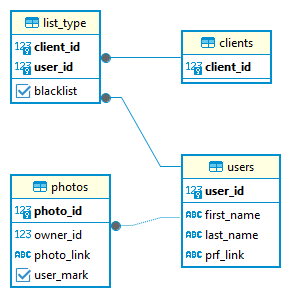
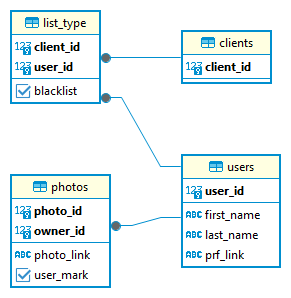
fixed the errors

Changed region(s): [[0.0309, 0.7248, 0.3711, 0.8154], [0.4639, 0.7248, 0.6186, 0.755]]

diff --git a/src/modules/classes.py b/src/modules/classes.py
@@ -7,6 +7,7 @@ from datetime import datetime
 from vk_api import VkApi, ApiError
 from vk_api.keyboard import VkKeyboard, VkKeyboardColor
 from vk_api.longpoll import Event
+from sqlalchemy.exc import IntegrityError
 
 from db import ModelDb, Users, Photos, Clients
 from vk_data import KeyWord, Meths, DftSrcCriteria
@@ -187,7 +188,7 @@ class UserVkApi(VkApi):
             return []
 
 
-class GropVkApi(VkApi):
+class GroupVkApi(VkApi):
 
     def __init__(self, group_token: str) -> None:
         super().__init__(token=group_token, api_version='5.191')
@@ -519,7 +520,7 @@ class UserBot(ActionInterface):
     AGE_PATTERN = re.compile(r'\d{1,3}')
 
     def __init__(self, user_api: UserVkApi, user: User,
-                 bot_api: GropVkApi, model_db: ModelDb) -> None:
+                 bot_api: GroupVkApi, model_db: ModelDb) -> None:
         super().__init__()
         self.s_engin = SearchEngine(user_api)
         self.db = model_db
@@ -560,22 +561,16 @@ class UserBot(ActionInterface):
         self.api.show_kb(self.client.id, msg, self.curr_kb.get_keyboard())
 
     def _go_blacklist_view(self, msg='Посмотрим...') -> None:
-        self.marker = 0
-        self.max_marker = len(self.blacklist) - 1
-        self.viewing_list = list(self.blacklist)
-        message = msg
-        self.curr_kb, self.curr_action = self._get_viewing_history_kb()
-        self.api.show_kb(self.client.id, message, self.curr_kb.get_keyboard())
-        self._show_next_person()
+        if self.set_viewing_options(self.blacklist, msg):
+            self.show_user_info(self.viewing_list[self.marker])
+        else:
+            self.api.write_msg(self.client.id, 'Список пуст...')
 
     def _go_favorites_view(self, msg='Посмотрим...') -> None:
-        self.marker = 0
-        self.max_marker = len(self.favorite_list) - 1
-        self.viewing_list = list(self.favorite_list)
-        message = msg
-        self.curr_kb, self.curr_action = self._get_viewing_history_kb()
-        self.api.show_kb(self.client.id, message, self.curr_kb.get_keyboard())
-        self._show_next_person()
+        if self.set_viewing_options(self.favorite_list, msg):
+            self.show_user_info(self.viewing_list[self.marker])
+        else:
+            self.api.write_msg(self.client.id, 'Список пуст...')
 
     def _go_search_people(self, msg='') -> None:
         self.curr_kb, self.curr_action = self._get_criteria_selection_kb()
@@ -709,11 +704,15 @@ class UserBot(ActionInterface):
             message = 'Данный пользователь уже занесен в чёрный список...'
             self.api.write_msg(self.client.id, message)
         else:
-            self.blacklist.add(self.curr_user)
-            self.s_engin.blacklist_ids.add(self.curr_user.id)
             args = self.cnvrt_users_to_db_rec(self.curr_user, self.client.id)
-            self.db.write_users_to_db(*args, blacklisted=True)
-            self.api.write_msg(self.client.id, msg)
+            try:
+                self.db.write_users_to_db(*args, blacklisted=True)
+            except IntegrityError:
+                print('не получилось добавить пользователя в список...')
+            else:
+                self.blacklist.add(self.curr_user)
+                self.s_engin.blacklist_ids.add(self.curr_user.id)
+                self.api.write_msg(self.client.id, msg)
 
     def _add_to_favorites(self, msg='Добавил к избранным...:-)') -> None:
         if self.curr_user in self.favorite_list:
@@ -723,17 +722,21 @@ class UserBot(ActionInterface):
             message = 'Данный пользователь занесен в чёрный список...'
             self.api.write_msg(self.client.id, message)
         else:
-            self.favorite_list.add(self.curr_user)
             args = self.cnvrt_users_to_db_rec(self.curr_user, self.client.id)
-            self.db.write_users_to_db(*args, blacklisted=False)
-            self.api.write_msg(self.client.id, msg)
+            try:
+                self.db.write_users_to_db(*args, blacklisted=False)
+            except IntegrityError:
+                print('не получилось добавить пользователя в список...')
+            else:
+                self.favorite_list.add(self.curr_user)
+                self.api.write_msg(self.client.id, msg)
 
     def _show_previous_person(self, msg='Список пуст...') -> None:
         if self.viewing_list:
+            self.marker -= 1
             if abs(self.marker) > self.max_marker:
                 self.marker = 0
             self.show_user_info(self.viewing_list[self.marker])
-            self.marker = -1
         else:
             self.api.write_msg(self.client.id, msg)
 
@@ -742,10 +745,10 @@ class UserBot(ActionInterface):
 
     def _show_next_person(self, msg='Список пуст...') -> None:
         if self.viewing_list:
+            self.marker += 1
             if abs(self.marker) > self.max_marker:
                 self.marker = 0
             self.show_user_info(self.viewing_list[self.marker])
-            self.marker += 1
         else:
             self.api.write_msg(self.client.id, msg)
 
@@ -765,6 +768,18 @@ class UserBot(ActionInterface):
         else:
             self.api.write_msg(self.client.id, 'Нет пользователей...')
             self._go_come_back('Может изменим варианты просмотра...')
+
+    def set_viewing_options(self, special_list: set, message: str) -> bool:
+        if special_list:
+            self.marker = 0
+            self.max_marker = len(special_list) - 1
+            self.viewing_list = list(special_list)
+            self.curr_kb, self.curr_action = self._get_viewing_history_kb()
+            self.api.show_kb(self.client.id, message,
+                             self.curr_kb.get_keyboard())
+            return True
+        else:
+            return False
 
     @staticmethod
     def cnvrt_users_to_db_rec(user: User, client_id: int) -> tuple:

diff --git a/src/modules/vkbot.py b/src/modules/vkbot.py
@@ -3,7 +3,7 @@ import os
 from vk_api.longpoll import VkLongPoll, VkEventType
 
 from db import ModelDb
-from classes import UserBot, GropVkApi, UserVkApi, User, KeyWord
+from classes import UserBot, GroupVkApi, UserVkApi, User, KeyWord
 
 
 class Bot:
@@ -11,7 +11,7 @@ class Bot:
     def __init__(self, admin_id: int, admin_token: str, group_token: str,
                  db_login: str, db_password: str, db_name='vk_bot_db') -> None:
         self.u_api = UserVkApi(token=admin_token, user_id=admin_id)
-        self.api = GropVkApi(group_token=group_token)
+        self.api = GroupVkApi(group_token=group_token)
         self.database = ModelDb(login=db_login, password=db_password,
                                 db_name=db_name)
         self.user_bots: dict[UserBot] | dict = {}

diff --git a/src/modules/db.py b/src/modules/db.py
@@ -44,7 +44,7 @@ class Photos(Base):
 
     photo_id = sq.Column(sq.Integer, primary_key=True)
     owner_id = sq.Column(sq.Integer, sq.ForeignKey(Users.user_id),
-                         nullable=False)
+                         primary_key=True, nullable=False)
     photo_link = sq.Column(sq.Text, nullable=False)
     user_mark = sq.Column(sq.Boolean, default=False, nullable=False)
 
@@ -119,3 +119,12 @@ class ModelDb:
 
     def drop_all_table(self) -> None:
         Base.metadata.drop_all(self.engine)
+
+
+if __name__ == '__main__':
+    import os
+    model = ModelDb(login=os.environ['LOGIN_DB'],
+                    password=os.environ['PASSWORD_DB'],
+                    db_name='vk_bot_db')
+    model.drop_all_table()
+    model.create_all_tables()
